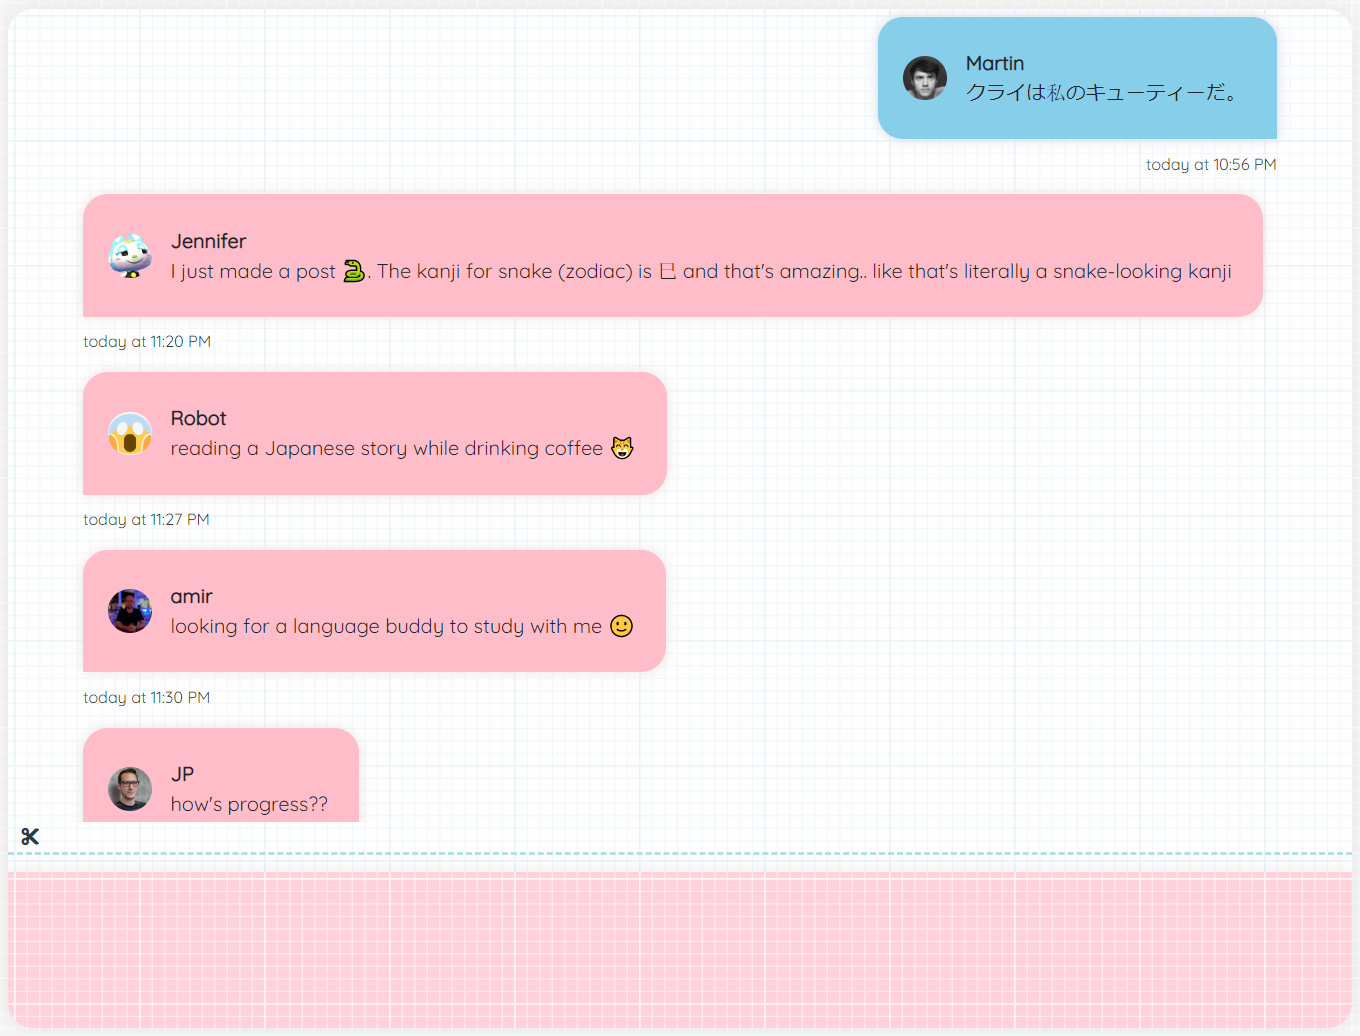
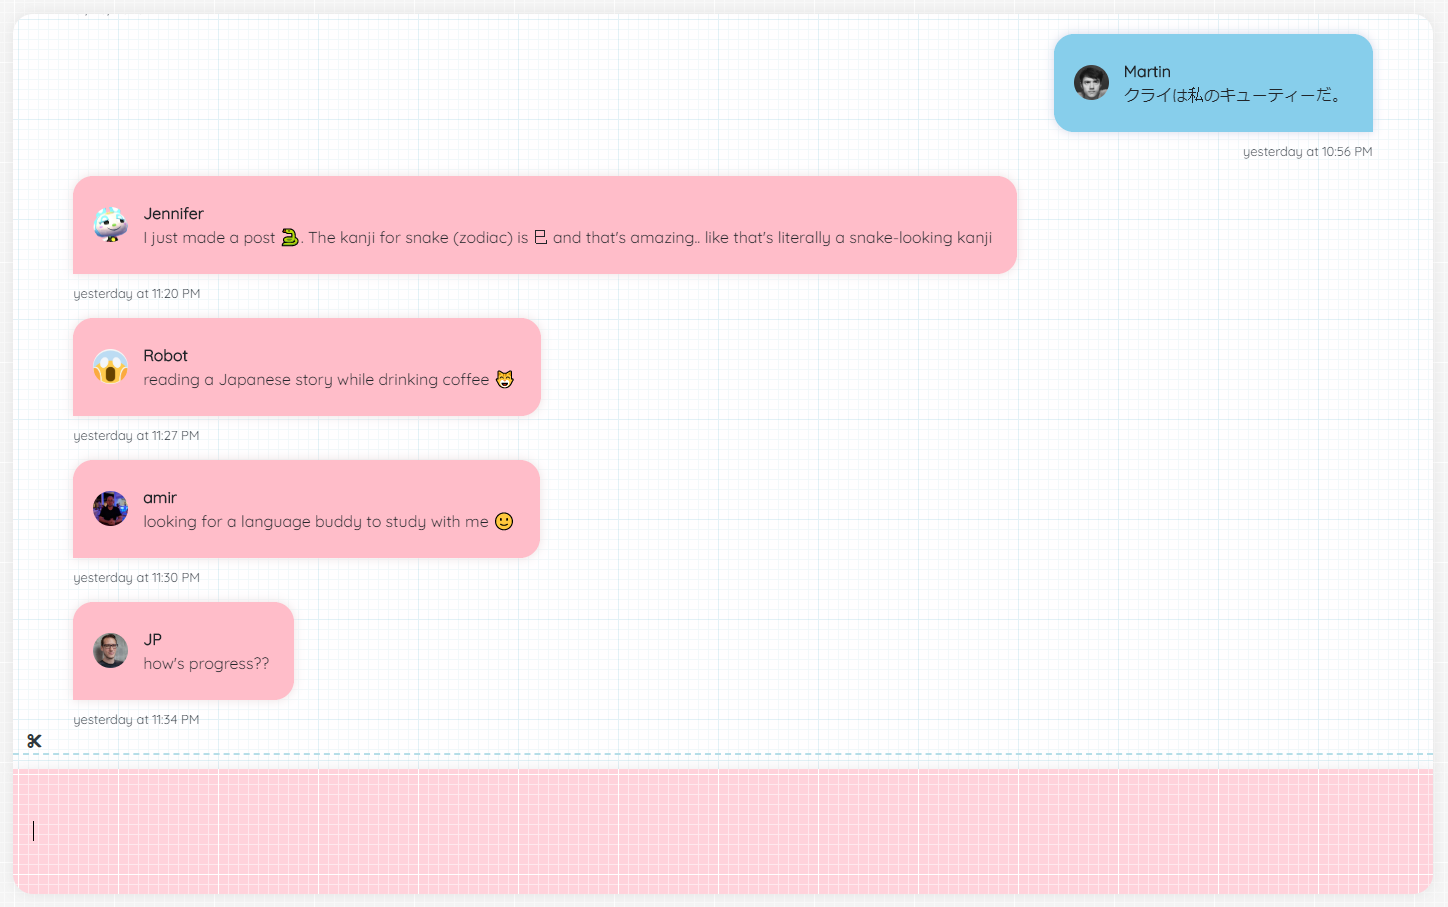
crispy

Changed region(s): [[0.0, 0.0, 1.0, 1.0]]

diff --git a/app/assets/stylesheets/landing-page.scss b/app/assets/stylesheets/landing-page.scss
@@ -123,7 +123,7 @@
 
 #chat-demo {
   height: auto;
-  width: 700px;
+  width: 900px;
 }
 
 #make-account {
